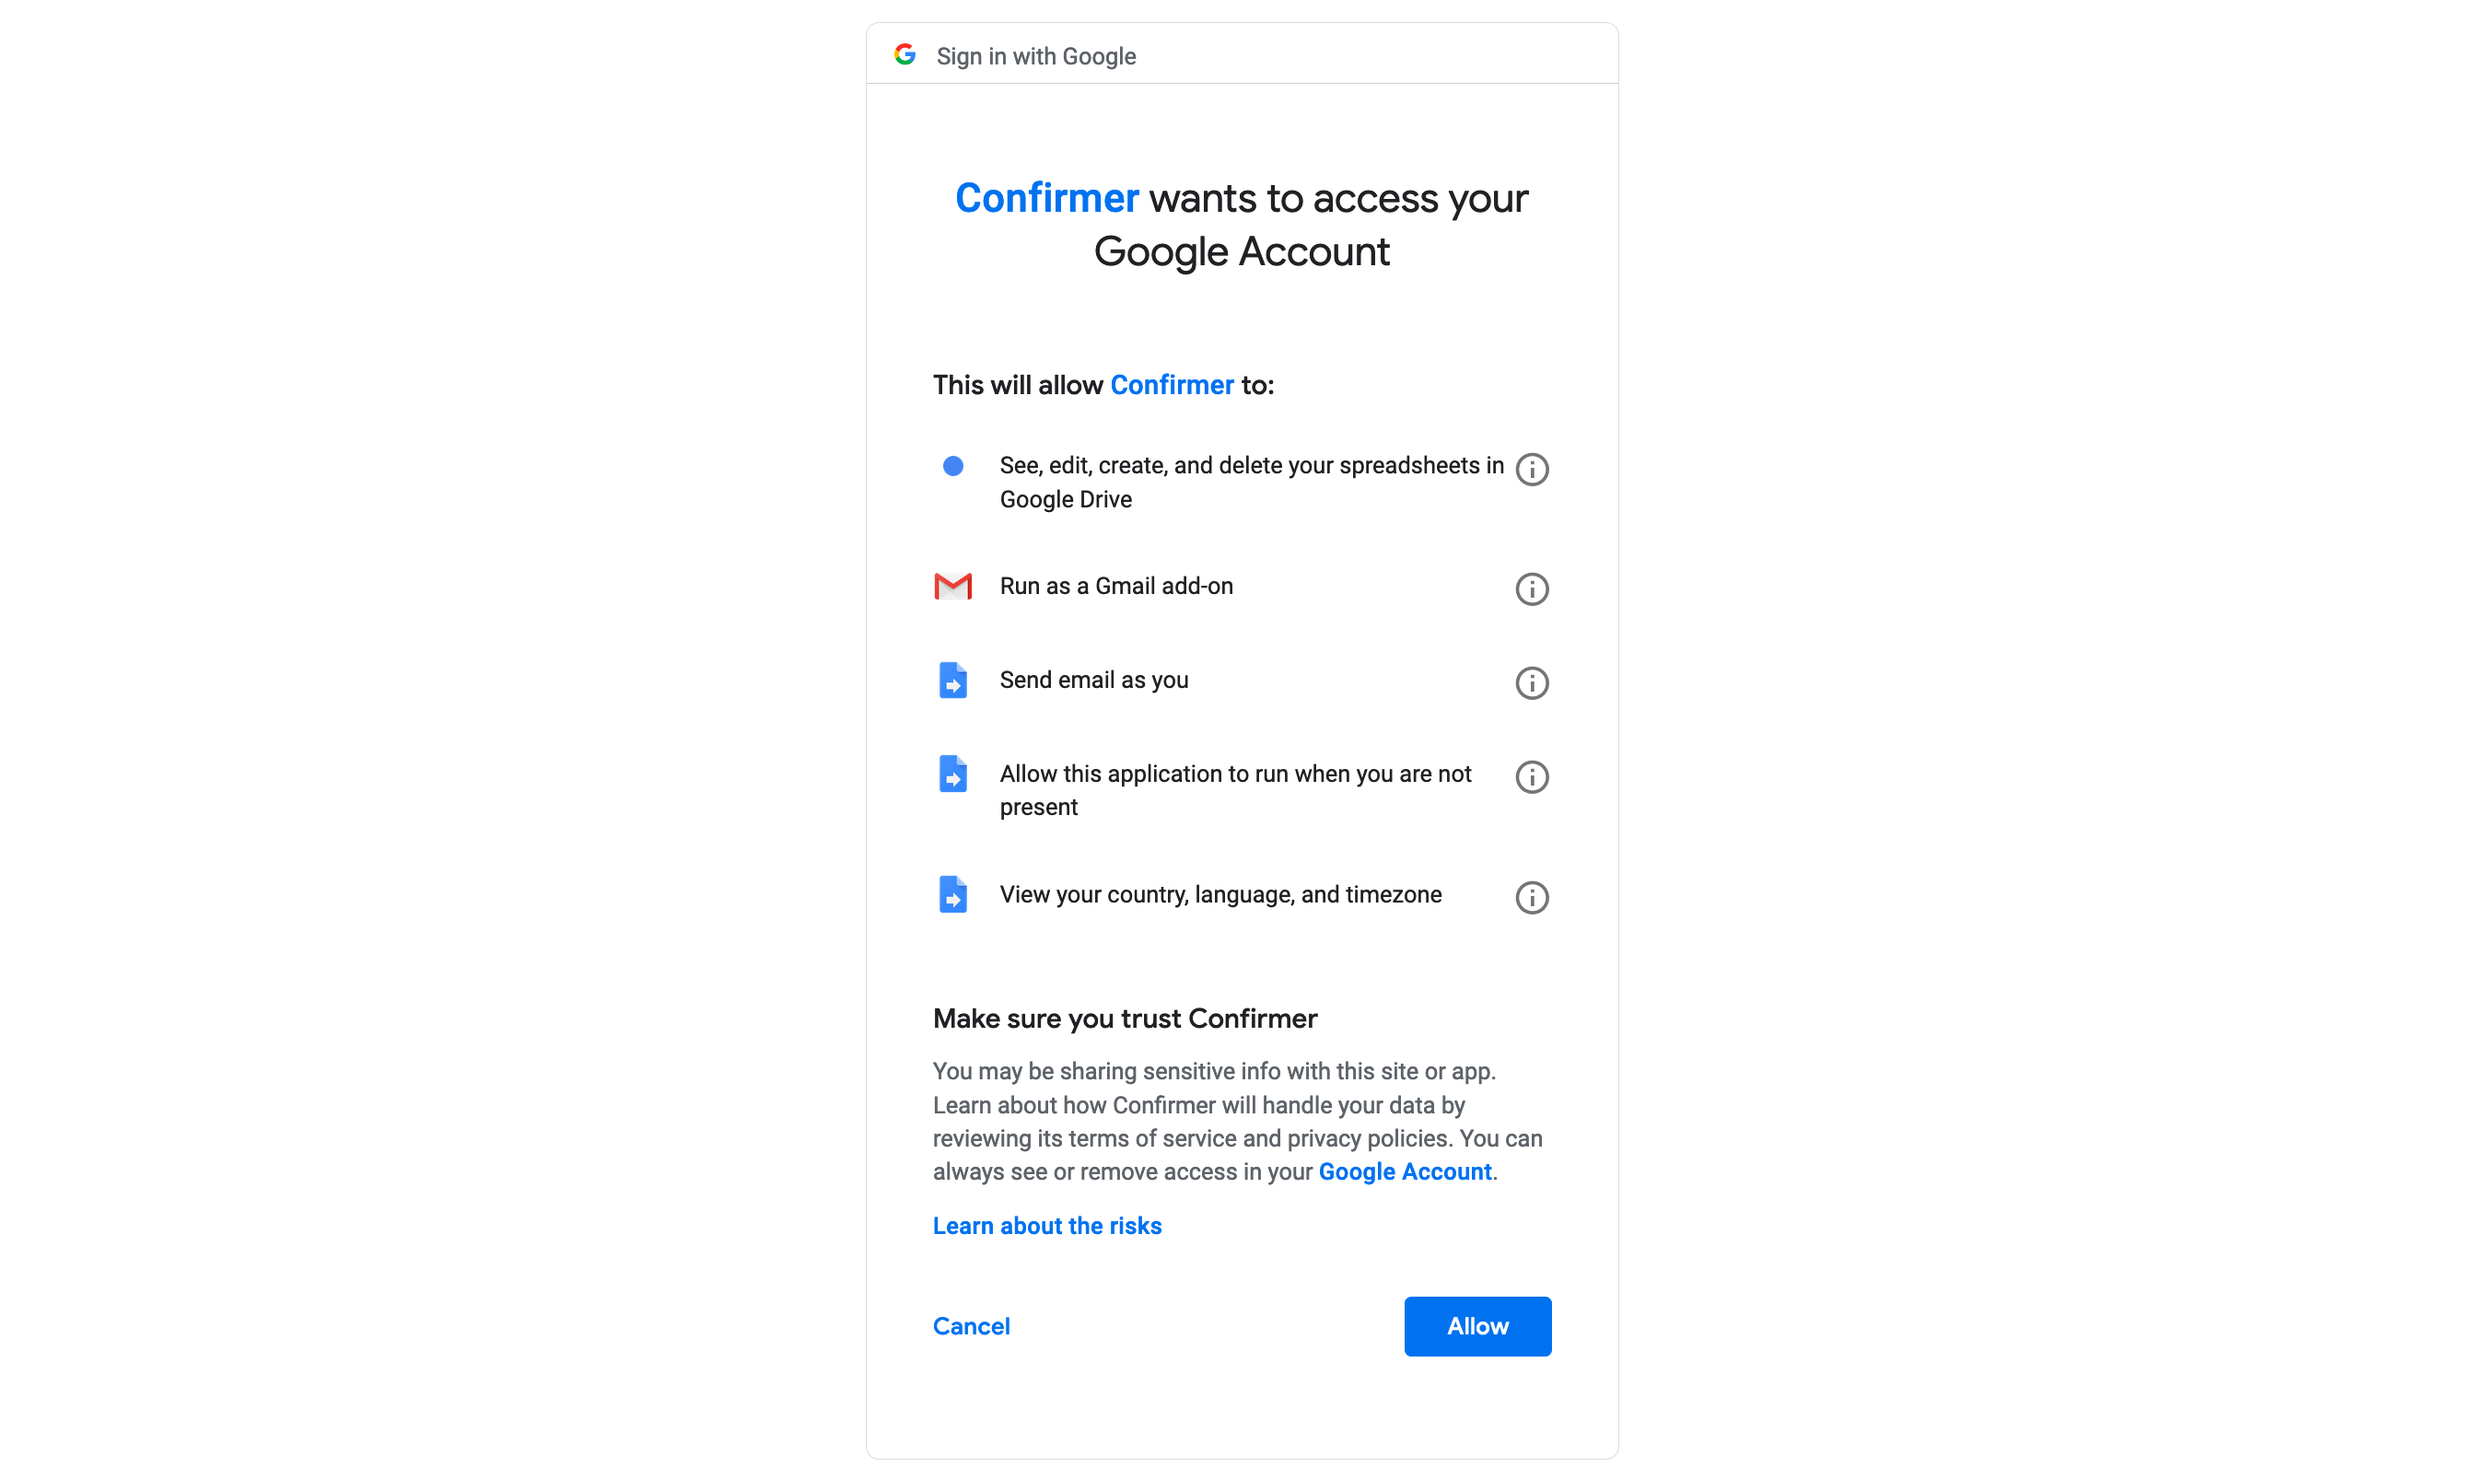
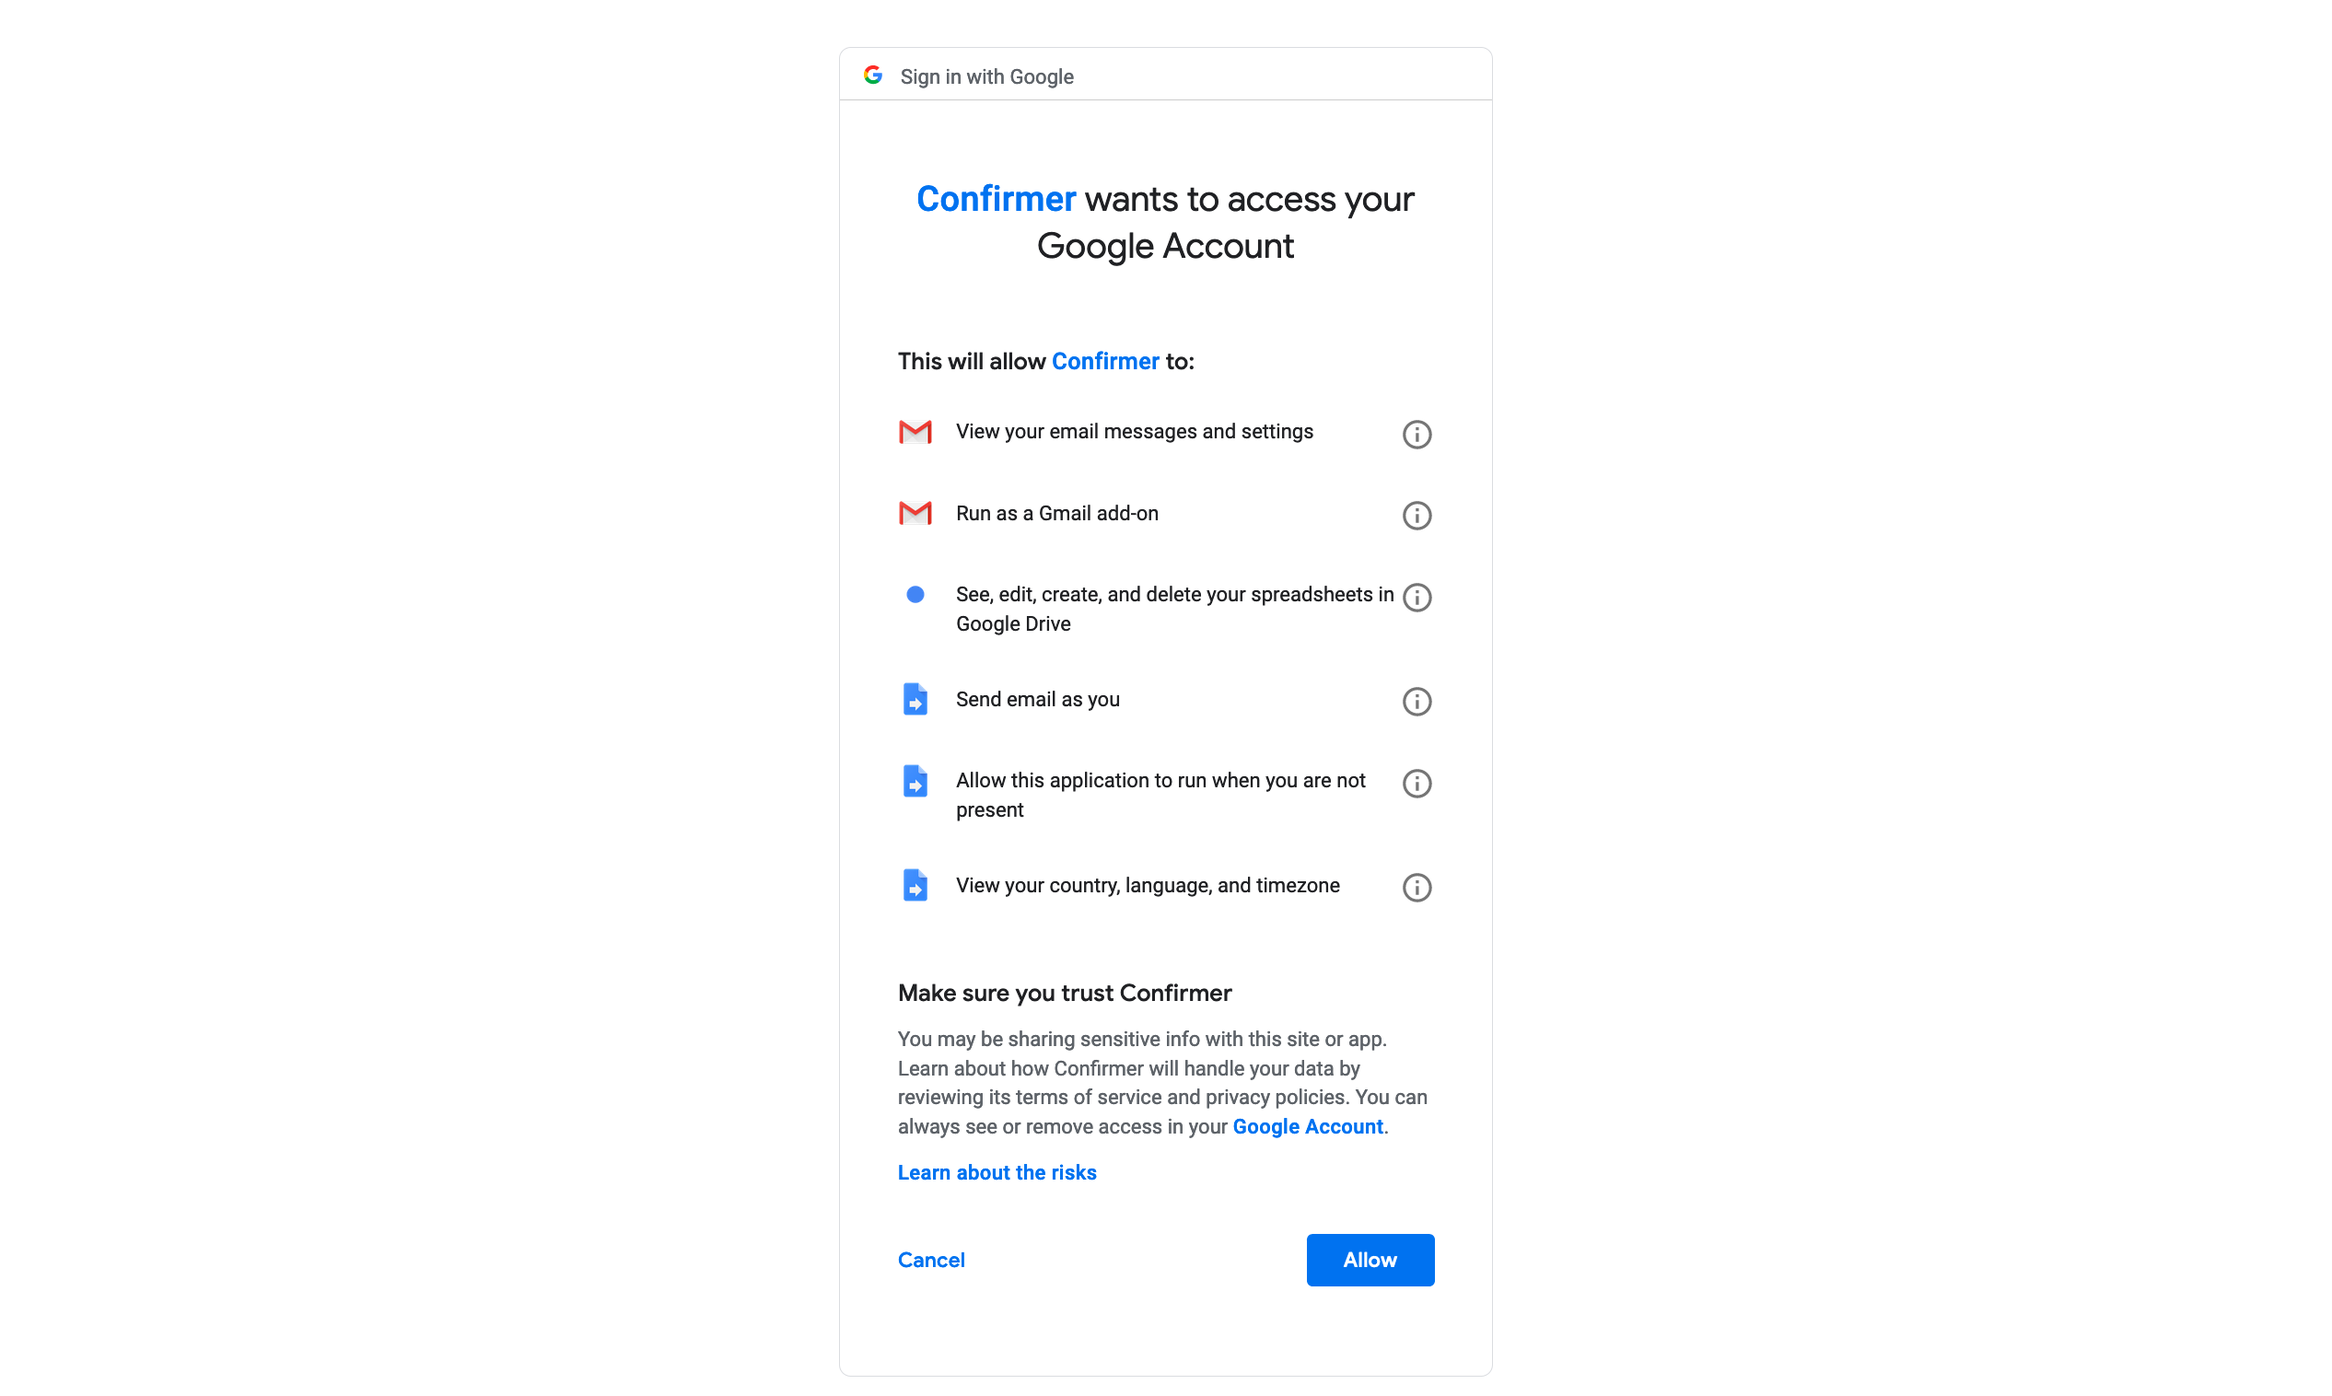
finished README

diff --git a/README.md b/README.md
@@ -247,19 +247,48 @@ features of the Google API are implemented:
 ## Common Questions
 __What do the add-on's requested permissions mean?__
 
-TODO
+`https://www.googleapis.com/auth/script.locale`: Allows the add-on to access
+your timezone. Is used to send emails at specified hours using your timezone.
+
+`https://www.googleapis.com/auth/script.send_mail`: Allows the add-on to send
+emails on your behalf.
+
+`https://www.googleapis.com/auth/script.scriptapp`: Allows the add-on to run
+when you're not using Gmail. This is used to send confirmation emails without
+needing you to login.
+
+`https://www.googleapis.com/auth/userinfo.email`: Allows the add-on to access
+your email address. This is used when the user specifies the add-on to send
+a copy of the confirmation email to themselves.
+
+`https://www.googleapis.com/auth/spreadsheets`: Allows the add-on to access 
+your Google Sheets. This is used to retrieve the information specified in the
+add-on settings.
+
+`https://www.googleapis.com/auth/gmail.addons.execute`: Allows the add-on to
+run in your Gmail account.
+
+`https://www.googleapis.com/auth/gmail.readonly`: Allows the add-on to access
+your email signature. Is used to add your signature to the email composition,
+when possible.
 
 __What data is collected?__
 
-TODO
+In order for the add-on to run, the add-on saves all settings values (e.g. 
+provided Google Sheet URLs). To prioritize user privacy (at the cost of speed),
+the add-on does __not__ save any content within the Google Sheets corresponding
+to the provided URLs.
 
 __How is the collected data used?__
 
-TODO
+The data is only used to run the add-on's necessary functions.
 
 __How is the collected data shared?__
 
-TODO
+The data is only saved to Google's servers and is isolated to your own Google 
+Account. In other words, only Google has access to the collected data (e.g. 
+Google Sheet URLs). Therefore, this add-on is subject to Gmail's data sharing 
+policy.
 
 __I am having trouble deploying the add-on. What can I do?__
 
